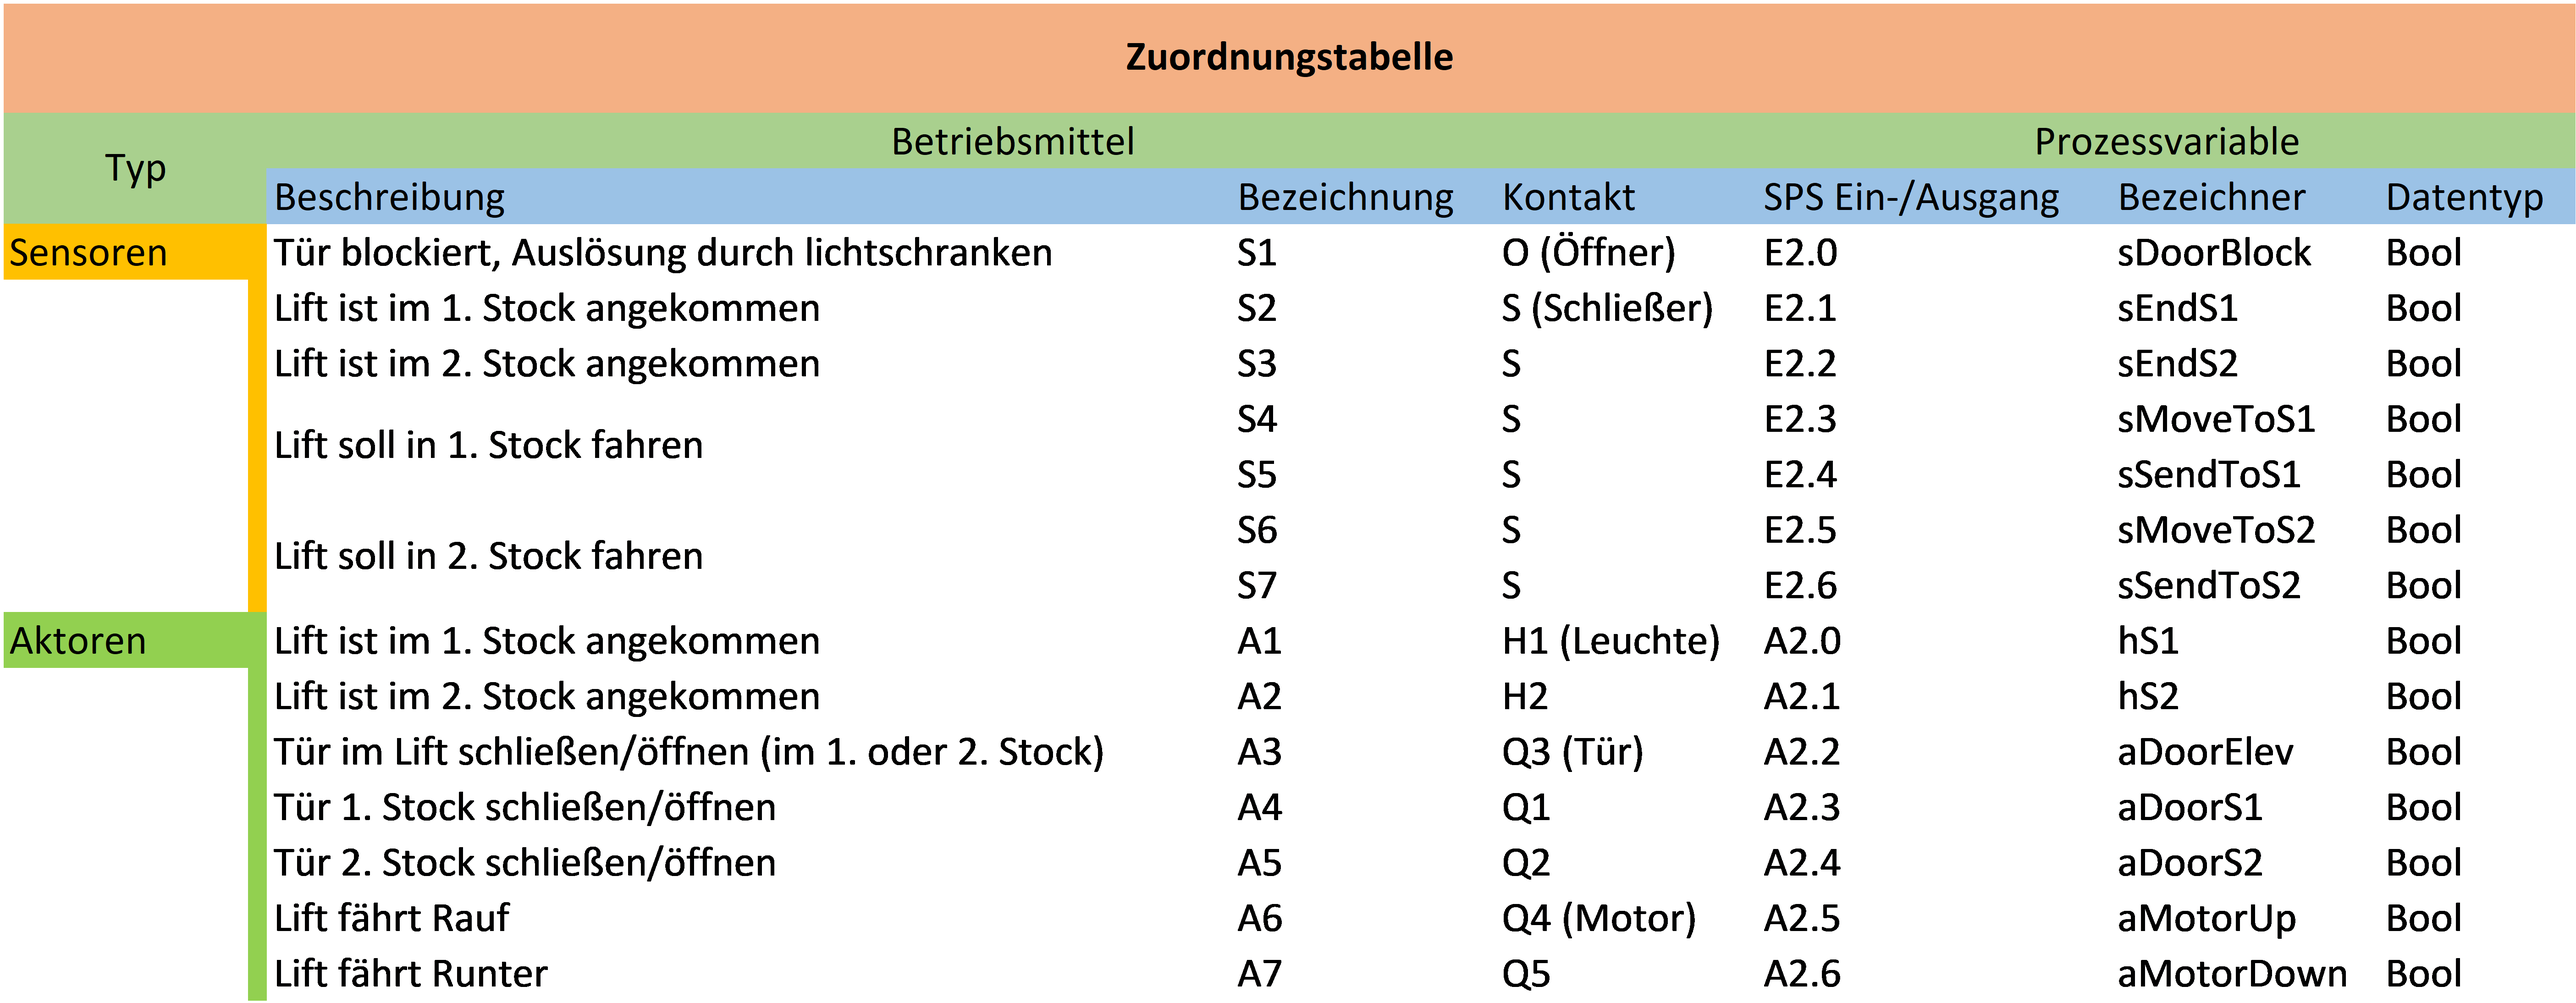
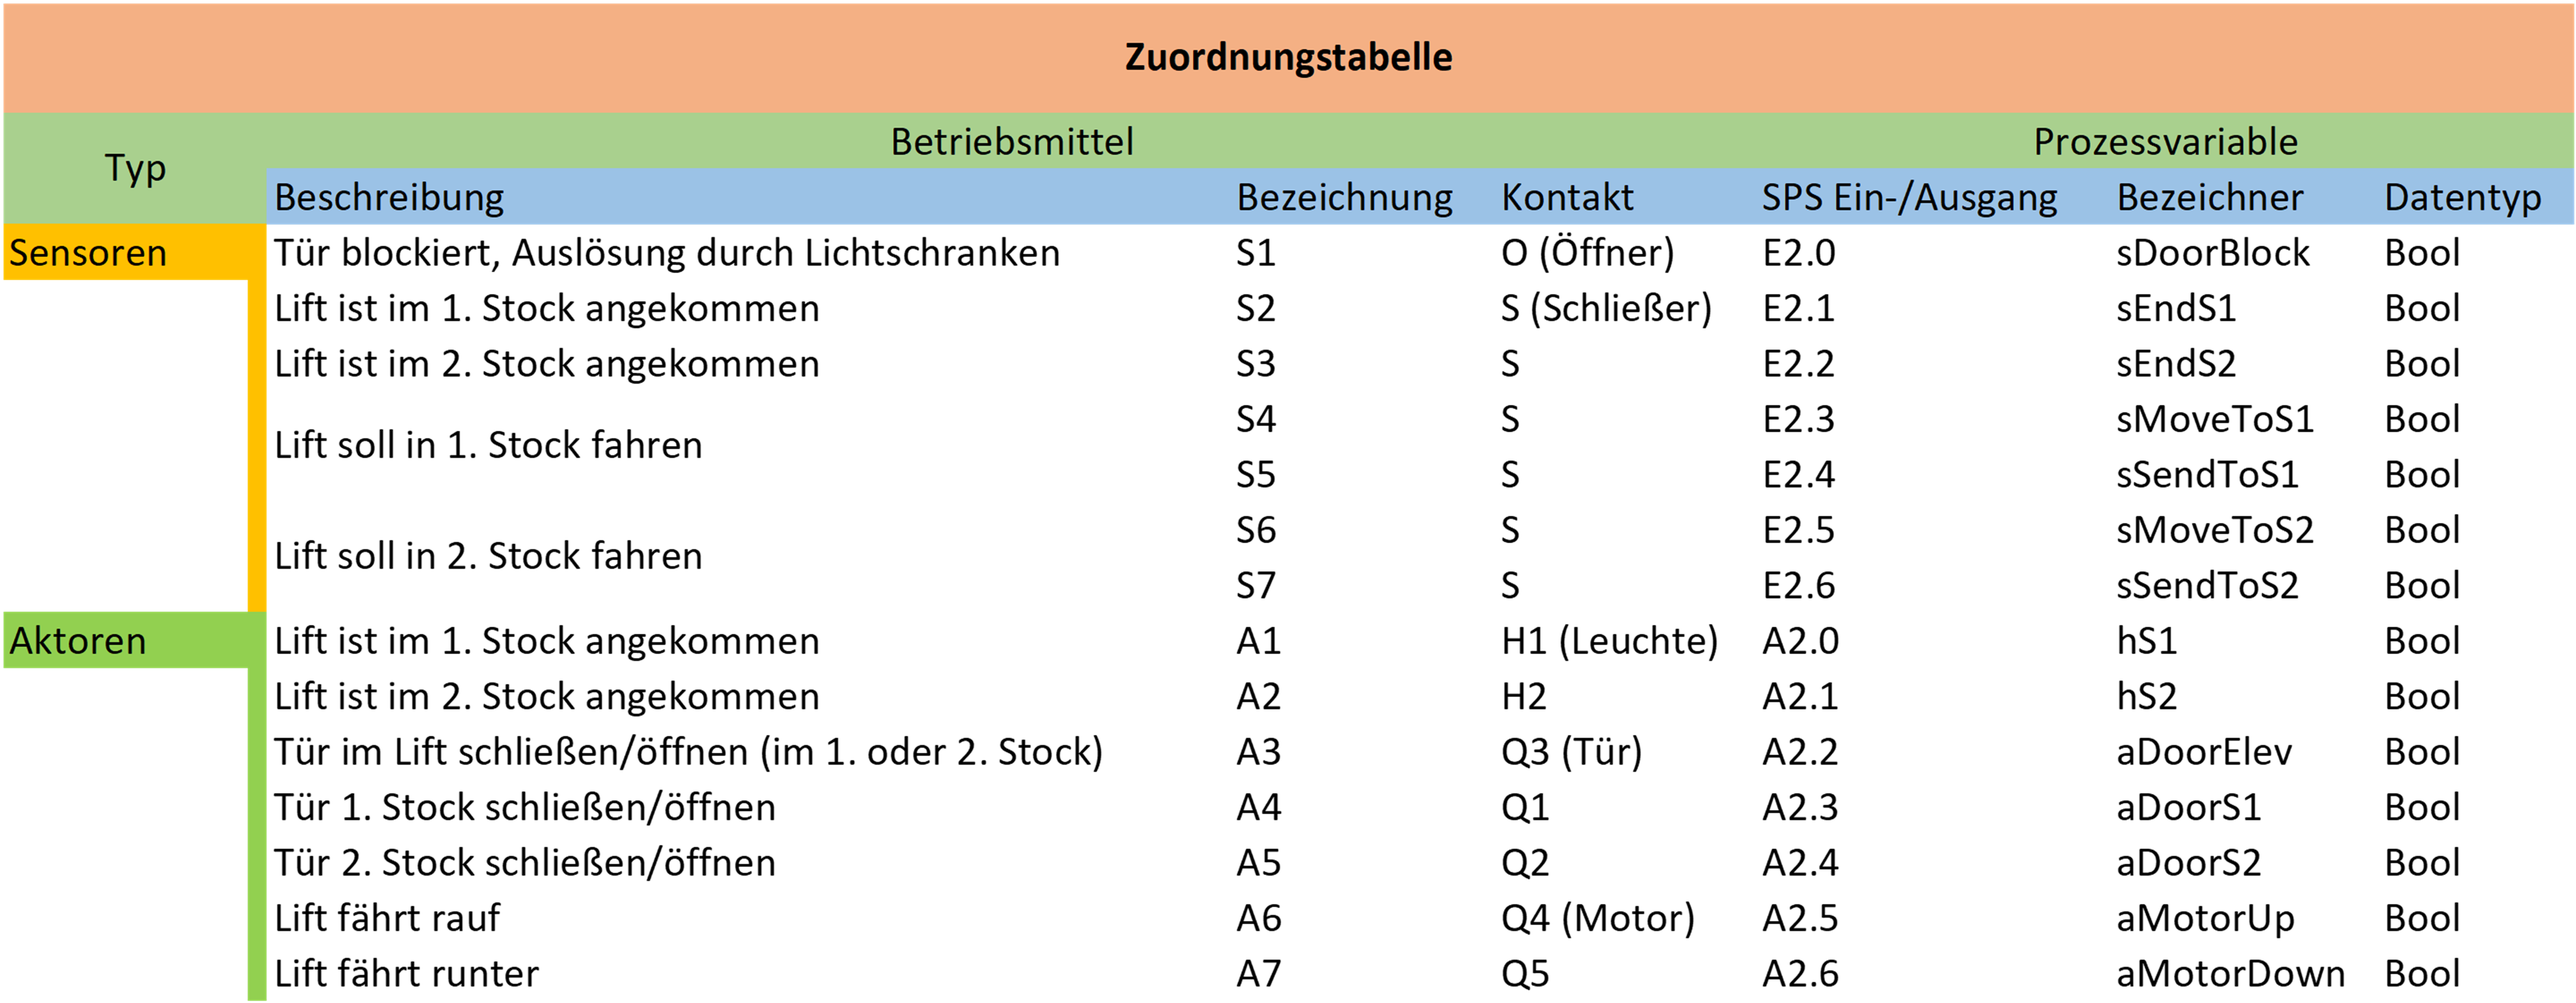
chore: :pencil2: Fix typos

diff --git a/src/03-Zielkriterien.tex b/src/03-Zielkriterien.tex
@@ -4,7 +4,7 @@
 
 ## Hardwarespezifikation
 
-Um den Lift zu steuern, wird eine SPS von Siemens verwendet. Die SPS kann fix verbaut werden, da der Lift in einem Gebäude verbaut wird, wird die SPS keinen Umwelteinflüssen ausgesetzt. Zudem ist anzunehmen, dass immer dieselbe Temperatur herrscht. Die SPS benötigt 5 Eingänge und 7 Ausgänge. Von den 7 Ausgängen werden mit 5 Schützen angesteurt, um in weiterer Folge die Motoren zu steuern. Mit den anderen Zwei Ausgänge werden Lampen angesteuert, welche signalisieren, wohin der Lift fährt. Aus sicherheitstechnischen Gründen wurde für den Lichtschranken (S1) ein Öffner verwendet und für die Türen (Q3, Q2, Q1) ein Schließer. Die zwei Endschalter (H1, H2) signalisieren, wenn der Lift in einem Stock angekommen ist.
+Um den Lift zu steuern, wird eine SPS von Siemens verwendet. Die SPS kann fix verbaut werden, da der Lift in einem Gebäude verbaut wird, wird die SPS keinen Umwelteinflüssen ausgesetzt. Zudem ist anzunehmen, dass immer dieselbe Temperatur herrscht. Die SPS benötigt 5 Eingänge und 7 Ausgänge. Von den 7 Ausgängen werden mit 5 Schützen angesteurt, um in weiterer Folge die Motoren zu steuern. Mit den anderen zwei Ausgängen werden Lampen angesteuert, welche signalisieren, wohin der Lift fährt. Aus sicherheitstechnischen Gründen wurde für den Lichtschranken (S1) ein Öffner verwendet und für die Türen (Q3, Q2, Q1) ein Schließer. Die zwei Endschalter (H1, H2) signalisieren, wenn der Lift in einem Stock angekommen ist.
 
 \begin{figure}[H]
     \centering
@@ -17,12 +17,12 @@ Um den Lift zu steuern, wird eine SPS von Siemens verwendet. Die SPS kann fix ve
 Es gibt in jeder Etage, in die der Lastenlift fährt, einen Druckknopf. Dieser Knopf ist dazu da, um den Lift zu rufen und die Türen zu öffnen. Im Lift gibt es zwei Druckknöpfe, wobei einer dafür dient, um in den unteren Stock zu fahren. Der andere dient dazu, um in den oberen Stock zu fahren. Zudem können mit den Knöpfen die Türen geöffnet werden. Im folgendem Bild werden alle Endschalter, Sensoren, Leuchten und Stockwerke abgebildet.
 
 - hS1 und hS2 stellen Lampen dar _(sie zeigen an, in welcher Etage sich der Lift befindet)_
-- SEndS1 und SEndS2 stellen den unteren und oberen Endschalter dar _(sie erkennen, ob der Lift im unterem oder oberen Stockwerk angekommen ist)_
+- SEndS1 und SEndS2 stellen den unteren und oberen Endschalter dar _(sie erkennen, ob der Lift im unteren oder oberen Stockwerk angekommen ist)_
 - sMoveToS1 und sMoveToS2 stellen Taster im Lift dar _(sie werden zur Navigation des Liftes verwendet)_
 - sSendToS1 und sSendToS2 stellen Taster außerhalb des Liftes dar _(sie werden zum Rufen des Liftes verwendet)_
 - sDoorBlock stellt den Lichtschacht dar _(dieser wird benötigt, um die Türen zu stoppen, falls diese blockiert wird)_ 
 - aDoorS2 und aDoorS1 stellen die jeweiligen Türen in den Stockwerken dar
-- aDoorElev stellt die Liftdür dar
+- aDoorElev stellt die Lifttür dar
 
 \begin{figure}[H]
     \centering
@@ -46,7 +46,7 @@ Alle Zustände und Zusammenhänge können aus der folgenden Zustands- und Zuordn
 
 ## Softwarespezifikation
 
-Das Programm wird in Automation Studio mit Hilfe von STL (Strukturiertem Text) programmiert. Es wird auf Basis von States umgesetzt. Zudem werden Timer benötigt, um die Lifttüren Zeitbasiert zu schließen. Zudem müssen sich, wenn die Lichtschranke blockiert wird, die Lifttüren öffnen, da es sonst zu Sicherheitsrisiken kommen kann. 
+Das Programm wird in Automation Studio mit Hilfe von STL (Strukturiertem Text) programmiert. Es wird auf Basis von States umgesetzt. Zudem werden Timer benötigt, um die Lifttüren zeitbasiert zu schließen. Zudem müssen sich, wenn die Lichtschranke blockiert wird, die Lifttüren öffnen, da es sonst zu Sicherheitsrisiken kommen kann. 
 
 ### Human Machine Interface (HMI)
 
@@ -54,7 +54,7 @@ Der Lift wird im Einzelschrittbetrieb betrieben und kann nur unter bestimmten Si
 
 ## Test und Industrialisierung
 
-Für alle Sensoren und Aktoren wurden Technisch hochwertige Produkte ausgewählt, um die Sicherheit und die Funktionalität zu gewährleisten. Um sicher zu stellen, dass es nach der Inbetriebnahme zu keinerlei Störungen kommt, wurde ein maximales Gewicht festgelegt, welches der Lift befördern darf.
+Für alle Sensoren und Aktoren wurden technisch hochwertige Produkte ausgewählt, um die Sicherheit und die Funktionalität zu gewährleisten. Um sicher zu stellen, dass es nach der Inbetriebnahme zu keinerlei Störungen kommt, wurde ein maximales Gewicht festgelegt, welches der Lift befördern darf.
 
 ## Maschinensicherheit
 

diff --git a/src/05-Geräteaufbau.tex b/src/05-Geräteaufbau.tex
@@ -2,7 +2,7 @@
 
 \subsection{Blockschaltbild der Hardware}
 
-Durch das Blockschaltbild werden übersichtlich die Zusammenhänge der Hardware dargestellt. Es kann herauslesen werden, dass Sensoren in die SPS führen und von der SPS Motoren und Lichter angesteuert werden.
+Durch das Blockschaltbild werden übersichtlich die Zusammenhänge der Hardware dargestellt. Es kann herausgelesen werden, dass Sensoren in die SPS führen und von der SPS Motoren und Lichter angesteuert werden.
 
 \begin{figure}[H]
     \centering
@@ -10,7 +10,7 @@ Durch das Blockschaltbild werden übersichtlich die Zusammenhänge der Hardware 
     \caption[Blockschaltbild]{Blockschaltbild}
 \end{figure}
 
-Es ist wichtig die Elektromagnetische Verträglichkeit zu beachten, um falschsignale von Sensoren zu vermeiden, welche in folge zu Sicherheitsrisiken führen könnten.
+Es ist wichtig die elektromagnetische Verträglichkeit zu beachten, um Falschsignale von Sensoren zu vermeiden, welche in Folge zu Sicherheitsrisiken führen könnten.
 
 \newpage
 

diff --git a/src/04-ErweiterteKriterien.tex b/src/04-ErweiterteKriterien.tex
@@ -1,3 +1,3 @@
 \section{Erweiterte Ziel- oder Wunschkriterien}
 
-Es wäre möglich, einen Sensor einzubauen, welcher erkennt wenn der Lift überladen wurde. Zudem währe ein Drucksensor an den Türen sinnvoll. Um eine sanfte abbremsung zu ermöglichen könnten statt den Endschalter, optische Abstandssensoren verbaut werden.
+Es wäre möglich, einen Sensor einzubauen, welcher erkennt, wenn der Lift überladen wurde. Zudem wäre ein Drucksensor an den Türen sinnvoll. Um eine sanfte Abbremsung zu ermöglichen könnten statt den Endschalter, optische Abstandssensoren verbaut werden.

diff --git a/src/01-Allgemeines.tex b/src/01-Allgemeines.tex
@@ -1,5 +1,5 @@
 \section{Allgemeines - Zweck und Ziel dieses Dokuments}
 
-Es soll ein Lastenlift in betrieb genommen werden. Um dies zu bewerkstelligen, müssen Sensoren gesucht und bestellt werden. Zudem muss die Programmierung des Lastenliftes bereitgestellt werden.
+Es soll ein Lastenlift in Betrieb genommen werden. Um dies zu bewerkstelligen, müssen Sensoren gesucht und bestellt werden. Zudem muss die Programmierung des Lastenliftes bereitgestellt werden.
 
 \textbf{Auf die Implementierung wird im Pflichtenheft nicht eingegangen.}

diff --git a/src/06-Aufwände.tex b/src/06-Aufwände.tex
@@ -12,7 +12,7 @@
 
 \subsection{Finanzielle Aufwendungen}
 
-In der Tabelle unterhalb, werden die Kosten für die Endschalter und für den Lichtvorhang aufgelistet.
+In der Tabelle unterhalb werden die Kosten für die Endschalter und für den Lichtvorhang aufgelistet.
 
 %\begin{noindent}
 \begin{markdown}
